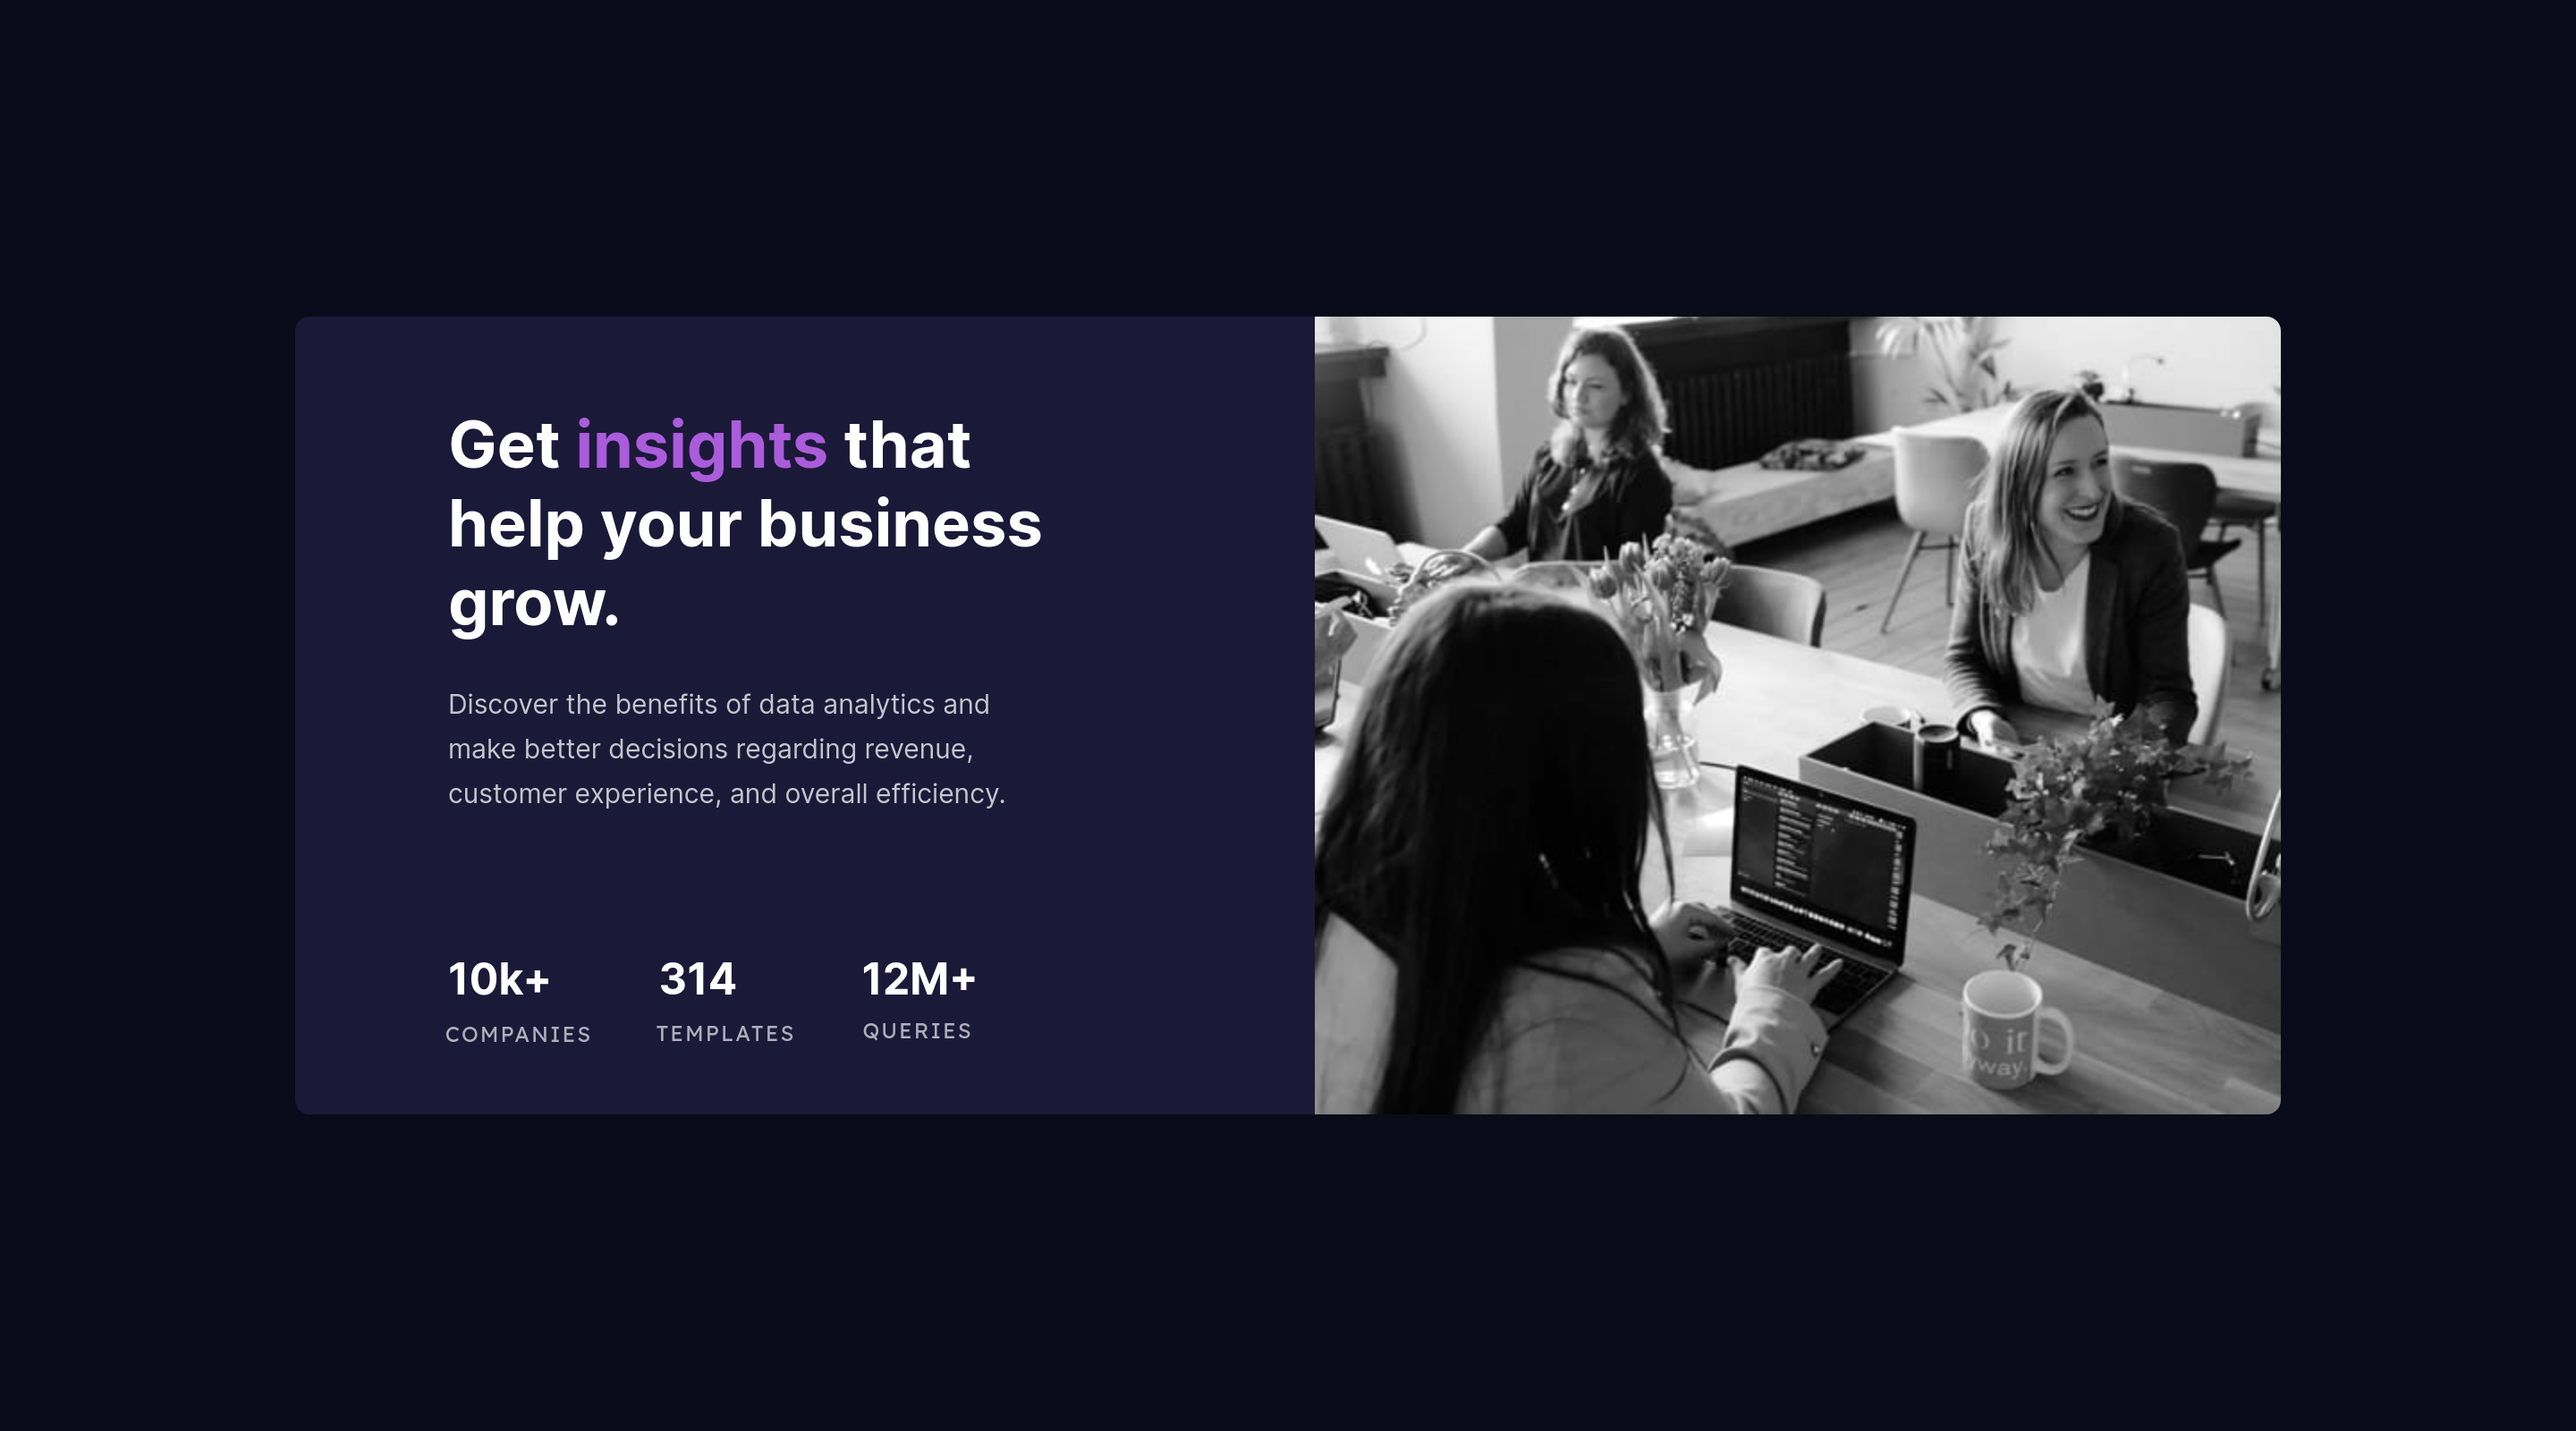
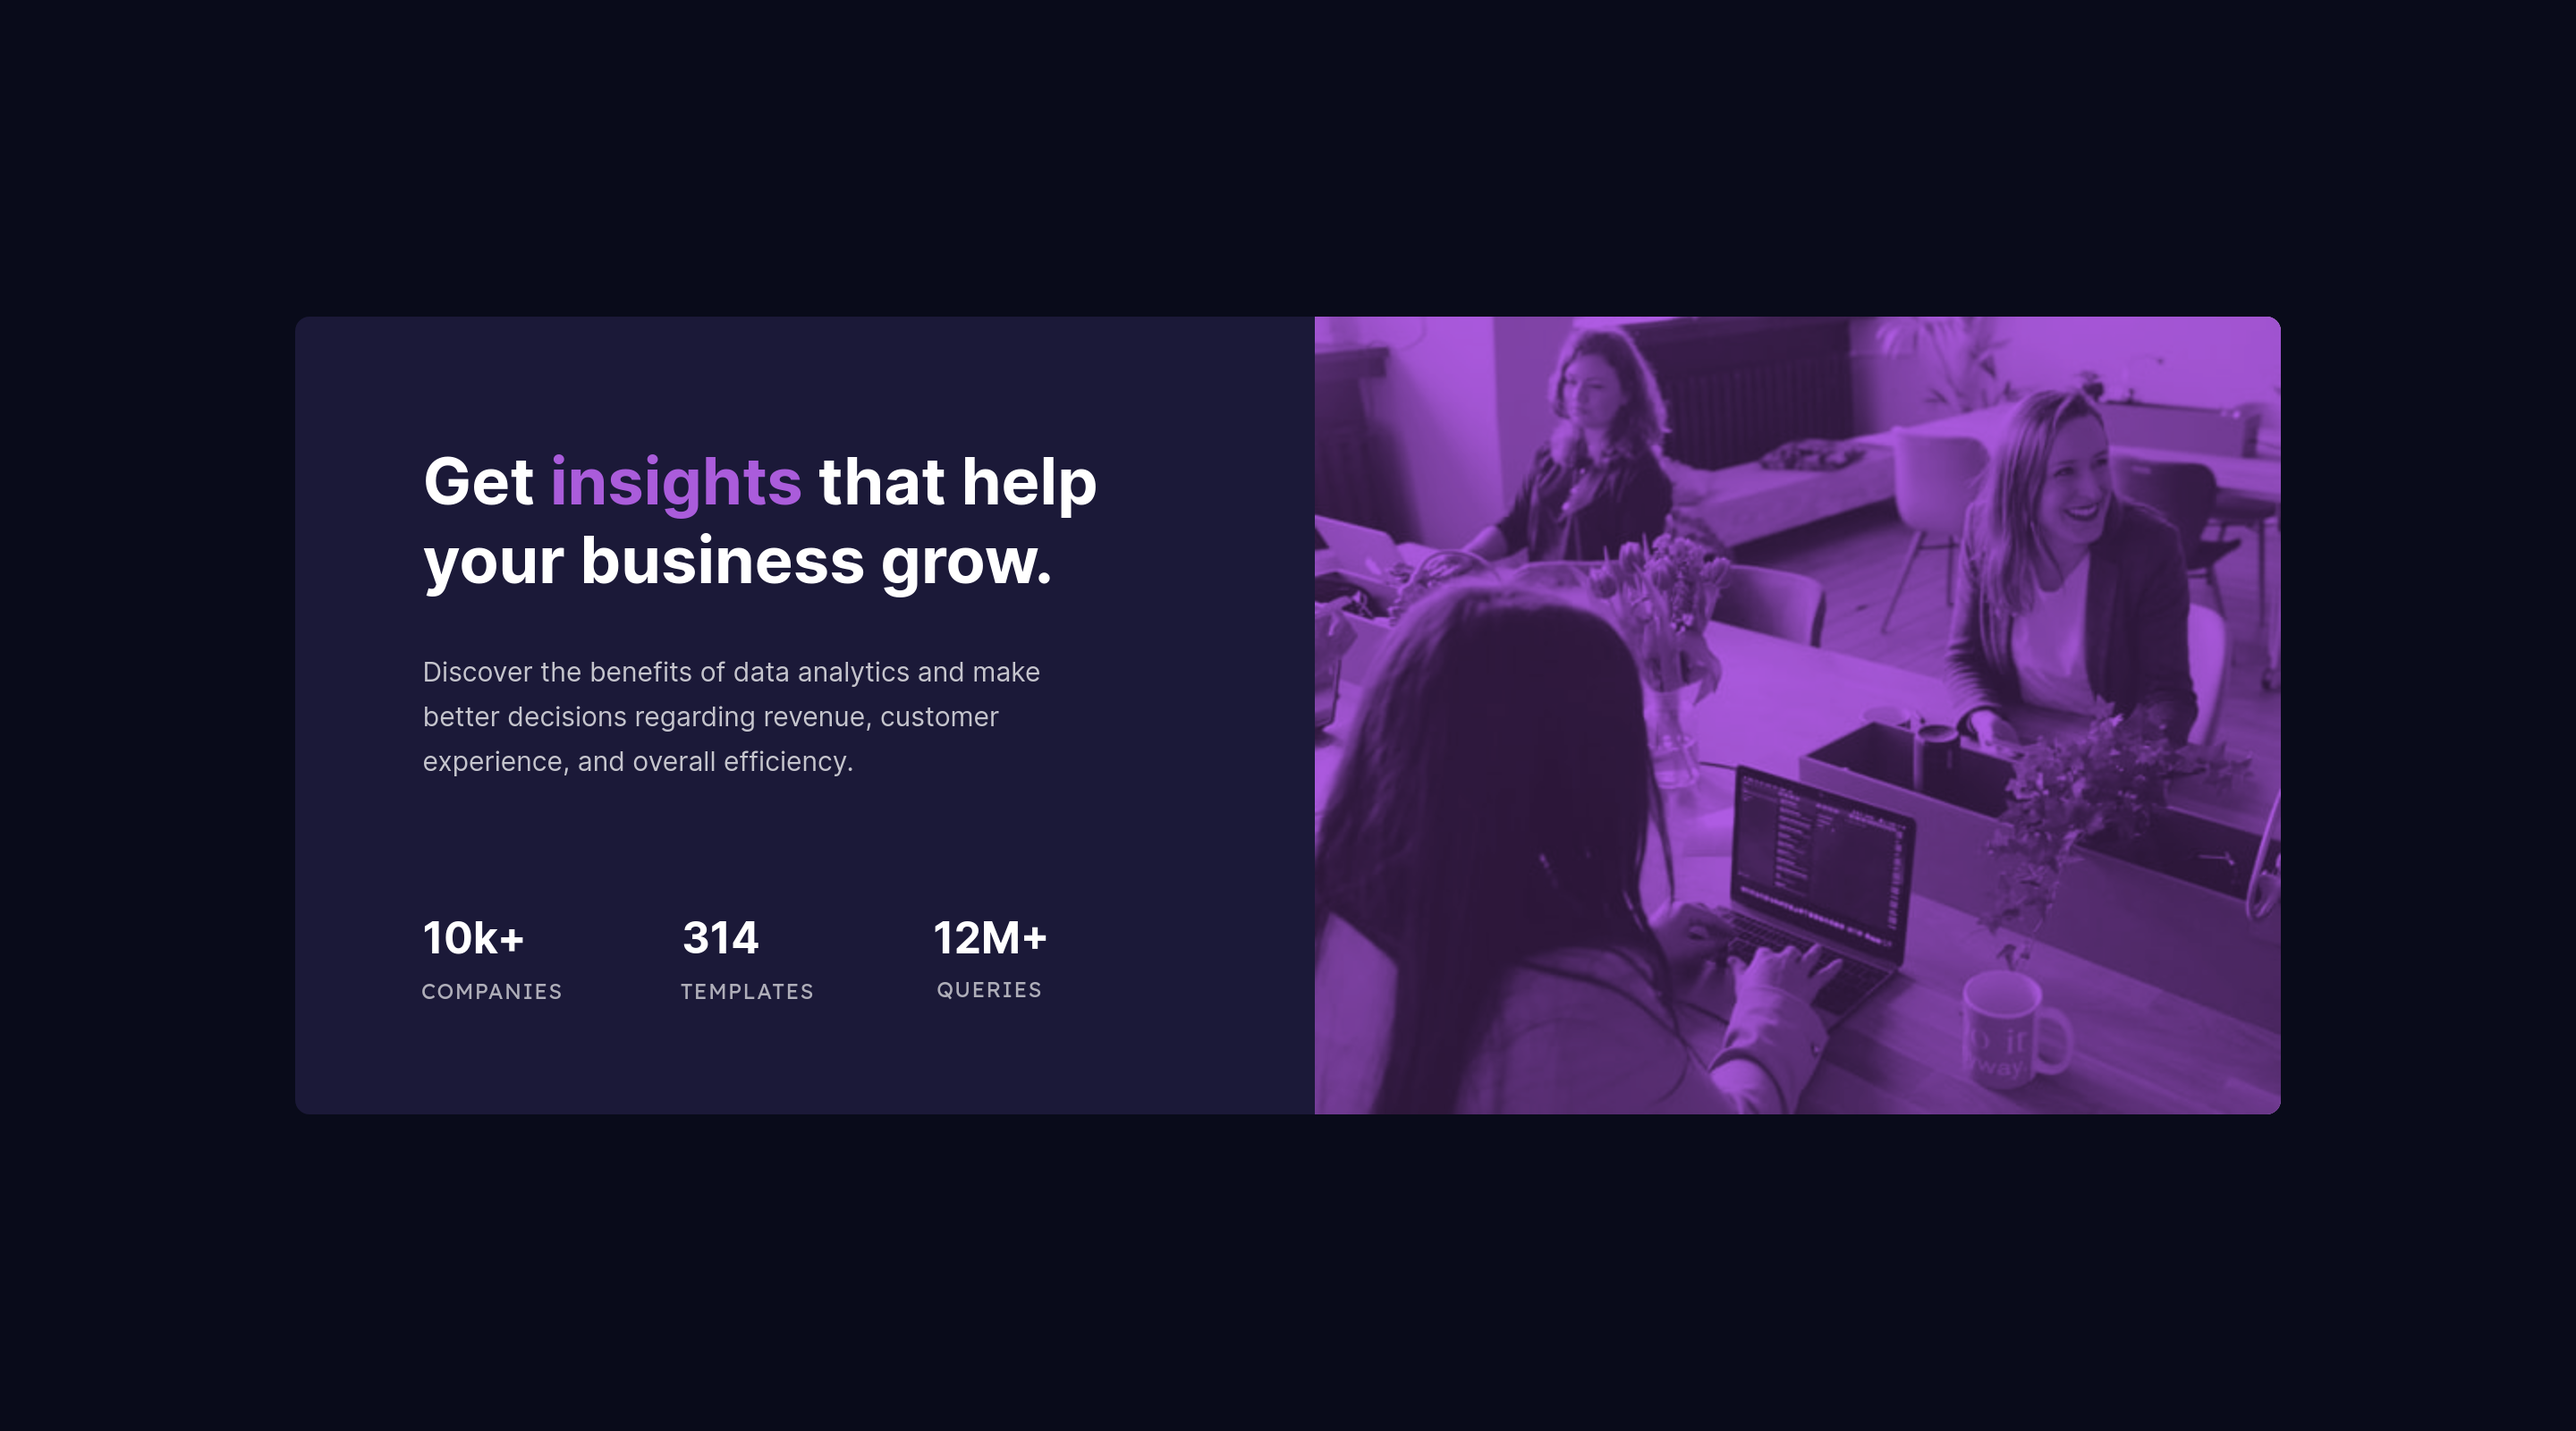
Fix alignment issues, add color filter
- text was misaligned
- previously forgot to add  color filter

- new screenshots added

diff --git a/resources/style.css b/resources/style.css
@@ -14,17 +14,21 @@ html {
 
 .image-1 {
     display: block;
-    background: url("/home/kwalker/Dev/Projects/preview-card/resources/images/image-header-desktop.jpg") hsla(277, 70%, 61%, 1);
+    background: url("/home/kwalker/Dev/Projects/preview-card/resources/images/image-header-desktop.jpg") hsla(277, 72%, 61%, .95);
     background-size: cover;
     height: 100%;
     border-top-right-radius: 0.5rem;
     background-blend-mode: multiply;
-    /* filter: sepia(2%); */
+    z-index: 0;
+    opacity: .75;
+    /* filter: sepia(50%); */
     
 }
 
 .box-1 {
     border-top-right-radius: 0.5rem;
+    background-color: hsla(277, 68%, 61%, 1);
+    z-index: 2;
 }
 
 .box-2 {
@@ -100,7 +104,7 @@ h1 {
 .para {
     text-align: center; /* mobile */
     margin: -5% 10% 0;  /* mobile */
-    letter-spacing: 0.06rem; /* mobile */
+    letter-spacing: 0.01rem;  /*mobile */
     height: 6.25rem;  /* mobile */
 }
 
@@ -122,7 +126,10 @@ h2 {
 .infograph p {
     font-size: 0.65rem;  /* mobile */
     margin: -15%;  /* mobile */
+    margin-left: -5%;
     font-family: 'Inter', serif; /* mobile */
+    font-weight: 500;
+    letter-spacing: 0.063rem;
 }
 
 }
@@ -165,16 +172,17 @@ h2 {
 h1 {
     font-size: 2.25rem;  /* desktop */
     line-height: 2.75rem;  /* desktop */
-    margin: 2% 25% 0 15%;  /* desktop */
+    margin: 1.5% 15% 0 12.5%;  /* desktop */
 }
 
 .para {
     display: inline-block;  /* desktop */;
-    margin: 4% 30% -4% 15%;  /* desktop */
+    margin: 5% 25% -7% 12.5%;  /* desktop */
+    text-align: left;
 }
 
 .infograph {
-    margin: 14% 33% 2% 15%;  /* desktop */
+    margin: 16% 26% 2% 12.5%;  /* desktop */
     justify-content: space-between;  /* desktop */
 }
 
@@ -184,9 +192,9 @@ h2 {
 
 .infograph p {
     font-size: 0.75rem; /* desktop */
-    margin: -15%;  /* desktop */
+    margin: -15% 0 -15% 1%;
     font-family: 'Lexend Deca', sans-serif;  /* desktop */
-    letter-spacing: 0.063rem;
+    letter-spacing: 0.043rem;
     position: relative;
     right: 2%;
 }

diff --git a/index.html b/index.html
@@ -7,7 +7,10 @@
     <link href="./resources/style.css" rel="stylesheet">
     
     <link rel="preconnect" href="https://fonts.gstatic.com">
-<link href="https://fonts.googleapis.com/css2?family=Inter:wght@400;700&family=Lexend+Deca&display=swap" rel="stylesheet"> 
+<link href="https://fonts.googleapis.com/css2?family=Inter:wght@400;700&family=Lexend+Deca&display=swap" rel="stylesheet">
+    <link rel="preconnect" href="https://fonts.gstatic.com">
+<link href="https://fonts.googleapis.com/css2?family=Inter:wght@500&display=swap" rel="stylesheet">
+
     <title>Frontend Mentor | Stats preview card component</title>
 </head>
 <body>
@@ -36,8 +39,5 @@
         </div>
       </div>
     </div>
-</body>
-  
-  
-  
+</body>  
 </html>
